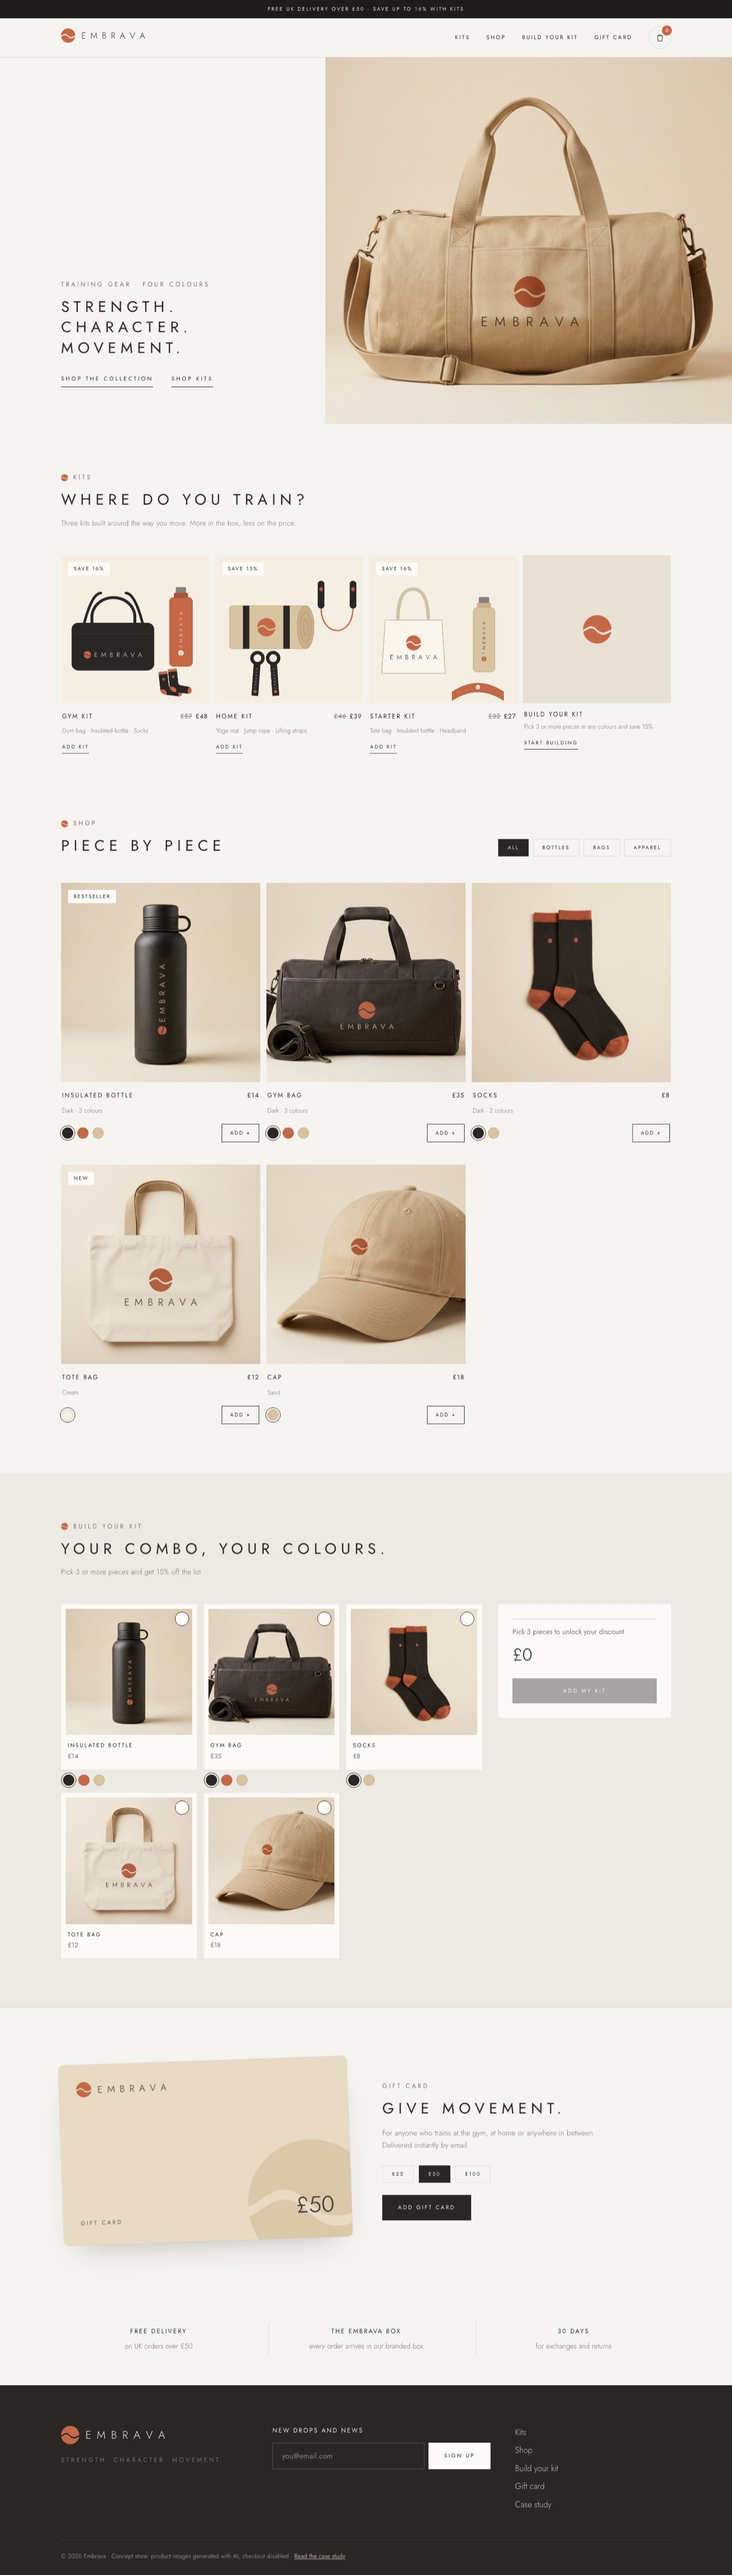
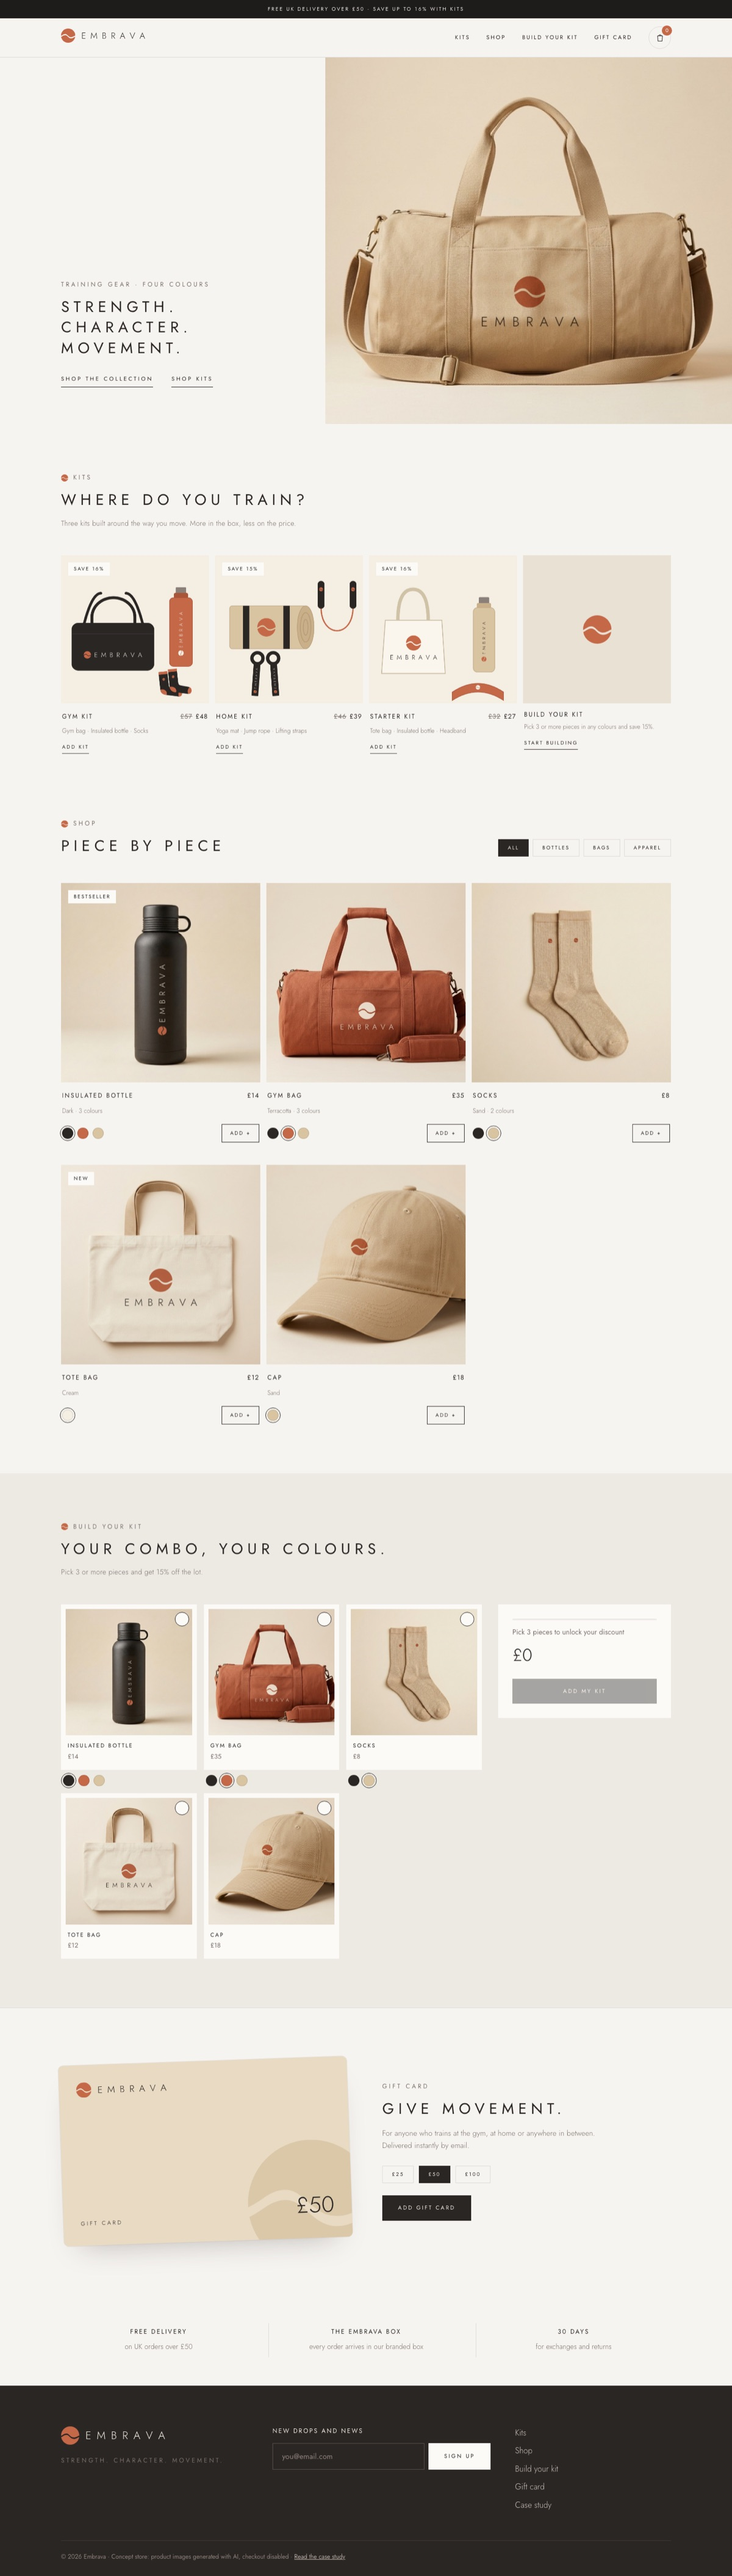
Show each colour in the first row: dark bottle, terracotta bag, sand socks

diff --git a/data.js b/data.js
@@ -24,17 +24,17 @@ const CATEGORIES = [
 /* `details` only lists what can be seen in the photos.
    Add materials, sizes and capacities once confirmed with your supplier. */
 const PRODUCTS = [
-  { id: "bottle", name: "Insulated bottle", cat: "bottles", price: 14, tag: "Bestseller",
+  { id: "bottle", name: "Insulated bottle", cat: "bottles", price: 14, tag: "Bestseller", default: "dark",
     variants: { dark: "bottle_dark", terracotta: "bottle_terracotta", sand: "bottle_sand" },
     lead: "Your training partner from first rep to last.",
     description: "A clean, solid bottle with the full Embrava logo running up the side. Easy to grab, easy to carry, and made to sit next to everything else in the range.",
     details: ["Full Embrava logo on the side", "Carry loop on the lid", "Available in Dark, Terracotta and Sand"] },
-  { id: "gym-bag", name: "Gym bag", cat: "bags", price: 35,
+  { id: "gym-bag", name: "Gym bag", cat: "bags", price: 35, default: "terracotta",
     variants: { dark: "bag_dark", terracotta: "bag_terracotta", sand: "bag_sand" },
     lead: "Room for everything. Character on the outside.",
     description: "A roomy holdall for gym days, early starts and weekends away. Carry it by the handles or sling it over your shoulder, and let the logo do the talking.",
     details: ["Twin carry handles", "Detachable shoulder strap", "Front pocket", "Embrava logo on the front", "Available in Dark, Terracotta and Sand"] },
-  { id: "socks", name: "Socks", cat: "apparel", price: 8,
+  { id: "socks", name: "Socks", cat: "apparel", price: 8, default: "sand",
     variants: { dark: "socks_dark", sand: "socks_sand" },
     lead: "Small detail. Big statement.",
     description: "Ribbed training socks with terracotta cuffs, heels and toes, and the Embrava symbol at the top. One pair.",

diff --git a/app.js b/app.js
@@ -6,7 +6,7 @@ const $ = (s, el = document) => el.querySelector(s);
 const money = (n) => `${CURRENCY}${Number.isInteger(n) ? n : n.toFixed(2)}`;
 const img = (file) => `assets/img/${file.includes(".") ? file : file + ".jpg"}`;
 const waveSvg = (cls = "") => `<svg class="${cls}" viewBox="0 0 164 164" aria-hidden="true"><use href="#symbol"/></svg>`;
-const firstColor = (p) => Object.keys(p.variants)[0];
+const firstColor = (p) => p.default || Object.keys(p.variants)[0];
 const productUrl = (id, colour) => `product.html?p=${id}${colour ? `&colour=${colour}` : ""}`;
 const findProduct = (id) => PRODUCTS.find((p) => p.id === id);
 const addProduct = (p, c, qty = 1) => addToCart({ key: `${p.id}-${c}`, name: p.name, meta: COLORS[c].label, price: p.price, img: img(p.variants[c]) }, qty);

diff --git a/case-study.html b/case-study.html
@@ -205,7 +205,7 @@
       </div>
       <div class="cs-split__body">
         <div class="cs-scroll" tabindex="0" aria-label="Full homepage screenshot, scrollable">
-          <img src="assets/case/home-full.jpg" alt="Full-length screenshot of the Embrava homepage: hero, kits, shop grid, build your kit, gift card and footer" width="1200" height="4217" loading="lazy">
+          <img src="assets/case/home-full.jpg" alt="Full-length screenshot of the Embrava homepage: hero, kits, shop grid, build your kit, gift card and footer" width="1200" height="4218" loading="lazy">
         </div>
       </div>
     </div>

diff --git a/product.js b/product.js
@@ -18,7 +18,7 @@
   }
 
   const colours = Object.keys(product.variants);
-  let colour = colours.includes(params.get("colour")) ? params.get("colour") : colours[0];
+  let colour = colours.includes(params.get("colour")) ? params.get("colour") : firstColor(product);
   let qty = 1;
 
   /* ---------- static content ---------- */
